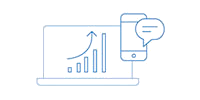
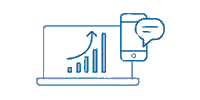
fazendo tema grayscale

Changed region(s): [[0.18, 0.12, 0.84, 0.87]]

diff --git a/src/app/components/Header/index.tsx b/src/app/components/Header/index.tsx
@@ -64,59 +64,77 @@ const Header = () => {
   // função de mudar cores do site
   const cores: any = {
     1: {
-      '--cor1': '#C4E8F0',
-      '--cor2': '#9BA6BC',
-      '--cor3': '#032D60',
-      '--cor4': '#E9F1FD',
-      '--cor5': '#CDDEF7',
-      '--cor6': '#1B8FC0',
-      '--cor7': '#0D4180',
-      '--cor8': '#0176D3',
-      '--cor9': '#00C3FF',
-      '--cor10': '#111169',
-      '--cor11': '#0869E7',
-      '--cor12': '#20083F',
-      '--cor13': '#0000FF',
-      '--cor14': '#9CC3FF',
-      '--cor15': '#EEEEEE',
-      '--cor16': '#000000'
+      "--cor1": "#C4E8F0",
+      "--cor2": "#9BA6BC",
+      "--cor3": "#032D60",
+      "--cor4": "#E9F1FD",
+      "--cor5": "#CDDEF7",
+      "--cor6": "#1B8FC0",
+      "--cor7": "#0D4180",
+      "--cor8": "#0176D3",
+      "--cor9": "#00C3FF",
+      "--cor10": "#111169",
+      "--cor11": "#0869E7",
+      "--cor12": "#20083F",
+      "--cor13": "#0000FF",
+      "--cor14": "#9CC3FF",
+      "--cor15": "#EEEEEE",
+      "--cor16": "#000000",
     },
     2: {
-      '--cor1': '#000000',
-      '--cor2': '#ffffff',
-      '--cor3': '#4fb5f8',
-      '--cor4': '#000a36',
-      '--cor5': '#003950',
-      '--cor6': '#1460c5',
-      '--cor7': '#82b3ee',
-      '--cor8': '#01a9d3',
-      '--cor9': '#606668',
-      '--cor10': '#7070ff',
-      '--cor11': '#00dada',
-      '--cor12': '#ab7de7',
-      '--cor13': '#0483fa',
-      '--cor14': '#030a16',
-      '--cor15': '#000000',
-      '--cor16': '#ffffff'
+      "--cor1": "#000000",
+      "--cor2": "#ffffff",
+      "--cor3": "#4fb5f8",
+      "--cor4": "#000a36",
+      "--cor5": "#003950",
+      "--cor6": "#1460c5",
+      "--cor7": "#82b3ee",
+      "--cor8": "#01a9d3",
+      "--cor9": "#606668",
+      "--cor10": "#7070ff",
+      "--cor11": "#00dada",
+      "--cor12": "#ab7de7",
+      "--cor13": "#0483fa",
+      "--cor14": "#030a16",
+      "--cor15": "#000000",
+      "--cor16": "#ffffff",
     },
     3: {
-      '--cor1': '#964444',
-      '--cor2': '#380909',
-      '--cor3': '#7be0ca',
-      '--cor4': '#b0c76f',
-      '--cor5': '#c9168d',
-      '--cor6': '#559da7',
-      '--cor7': '#5f1283',
-      '--cor8': '#3b0324',
-      '--cor9': '#ffffff',
-      '--cor10': '#202050',
-      '--cor11': '#00ff15',
-      '--cor12': '#1341a3',
-      '--cor13': '#d61212',
-      '--cor14': '#6b1f75',
-      '--cor15': '#e0adad',
-      '--cor16': '#000000'
-    }
+      "--cor1": "#ffffff",
+      "--cor2": "#ffffff",
+      "--cor3": "#4fb5f8",
+      "--cor4": "#000a36",
+      "--cor5": "#003950",
+      "--cor6": "#1460c5",
+      "--cor7": "#82b3ee",
+      "--cor8": "#01a9d3",
+      "--cor9": "#606668",
+      "--cor10": "#7070ff",
+      "--cor11": "#00dada",
+      "--cor12": "#ab7de7",
+      "--cor13": "#0483fa",
+      "--cor14": "#030a16",
+      "--cor15": "#000000",
+      "--cor16": "#ffffff",
+    },
+    4: {
+      "--cor1": "#D4D4D4",
+      "--cor2": "#A0A0A0",
+      "--cor3": "#3B3B3B",
+      "--cor4": "#FAFAFA",
+      "--cor5": "#DCDCDC",
+      "--cor6": "#6b6b6b",
+      "--cor7": "#5E5E5E",
+      "--cor8": "#616161",
+      "--cor9": "#A9A9A9",
+      "--cor10": "#474747",
+      "--cor11": "#757575",
+      "--cor12": "#3F3F3F",
+      "--cor13": "#5d5d5d",
+      "--cor14": "#979797",
+      "--cor15": "#EEEEEE",
+      "--cor16": "#000000",
+    },
   };
 
   function carregarCor() {
@@ -135,39 +153,69 @@ const Header = () => {
     const themeName = cor;
     const root = document.documentElement;
     const theme = cores[themeName];
-  
+
     // Atualiza as variáveis do :root
     for (const [key, value] of Object.entries(theme)) {
       root.style.setProperty(key, String(value));
     }
 
-    var styleElement: any;
-    if (corCount === 1) {
-      var additionalCss = `
-            .icone {
-              filter: invert(100%);
-            }
-            img {
-              filter: saturate(130%) contrast(120%) brightness(120%);
-            }
-            .contato-input {
-              border: 1px solid white;
-            }
-            .page {
-              background-image: url("./background1.jpg");
-            }
-            .form {
-              background-color: #040713d1;
-            }
-            .checkbox-item {
-              color: white;
-            }
-        `;
-        styleElement = document.createElement('style');
+    var styleElement = document.getElementById('meu-estilo');
+    var additionalCss: string = '';
+    console.log(corCount);
+    if (corCount < 4) {
+      // Verifica se o elemento existe
+      if (styleElement !== null) {
+        if (corCount === 0) {
+          var additionalCss = `
+                main {
+                  display: flex;
+                }
+            `;
+        }
+        if (corCount === 1) {
+          var additionalCss = `
+                .icone {
+                  filter: invert(100%);
+                }
+                img {
+                  filter: saturate(120%) brightness(120%);
+                }
+                .contato-input {
+                  border: 1px solid white;
+                }
+                .page {
+                  background-image: url("./background1.jpg");
+                }
+                .form {
+                  background-color: #040713d1;
+                }
+                .checkbox-item {
+                  color: white;
+                }
+            `;
+        } 
+        if (corCount === 2) {
+          var additionalCss = `
+                main {
+                  display: flex;
+                }
+            `;
+        }
+        if (corCount === 3) {
+          var additionalCss = `
+                html {
+                  filter: grayscale(100%);
+                }
+            `;
+        }
         styleElement.textContent = additionalCss;
+      } else {
+        styleElement = document.createElement("style");
+        styleElement.setAttribute('id', 'meu-estilo');
         document.head.appendChild(styleElement);
+      }
     } else {
-      var elementoParaExcluir = document.querySelector('head > style');
+      var elementoParaExcluir = document.getElementById('meu-estilo');
       if (elementoParaExcluir) {
           elementoParaExcluir.remove();
       }
@@ -175,11 +223,11 @@ const Header = () => {
   }
 
   function mudarCor() {
-    if (corCount < 3) {
+    if (corCount < 4) {
       corCount++;
-      cor ++;
+      cor++;
     }
-    if (corCount === 3) {
+    if (corCount === 4) {
       corCount = 0;
       cor = 1;
     }
@@ -228,15 +276,33 @@ const Header = () => {
           </nav>
         </div>
         <button className="acessibilidade" onClick={toggleMenu1}>
-          <Image className="icone" src="/acessibilidade1.png" alt="icone de acessibilidade" width={26} height={26} />
+          <Image
+            className="icone"
+            src="/acessibilidade1.png"
+            alt="icone de acessibilidade"
+            width={26}
+            height={26}
+          />
           {isMenuOpen1 && (
             <div className="botoes-acessibilidade">
               <button className="cores" onClick={mudarCor}>
-                <Image className="icone" src="/cores.svg" alt="cores" width={26} height={26} />
+                <Image
+                  className="icone"
+                  src="/cores.svg"
+                  alt="cores"
+                  width={26}
+                  height={26}
+                />
                 Cores
               </button>
               <button id="tamanho" onClick={aumentar}>
-                <Image className="icone" src="/texto.svg" alt="texto" width={26} height={26} />
+                <Image
+                  className="icone"
+                  src="/texto.svg"
+                  alt="texto"
+                  width={26}
+                  height={26}
+                />
                 Tamanho
               </button>
             </div>
@@ -244,11 +310,23 @@ const Header = () => {
         </button>
         <div className="itens-direita">
           <button className="icone-pesquisar">
-            <Image className="icone" src="/lupa1.png" alt="pesquisar" width={26} height={26} />
+            <Image
+              className="icone"
+              src="/lupa1.png"
+              alt="pesquisar"
+              width={26}
+              height={26}
+            />
           </button>
           <button className="icone-login">
             <a href="./login">
-              <Image className="icone" src="/avatar1.png" alt="login" width={25} height={25} />
+              <Image
+                className="icone"
+                src="/avatar1.png"
+                alt="login"
+                width={25}
+                height={25}
+              />
             </a>
           </button>
           <button className="menu-hamburger" onClick={toggleMenu}></button>
@@ -276,7 +354,13 @@ const Header = () => {
               </nav>
               <button className="login-dropdown">
                 <a href="./login">
-                  <Image className="icone" src="/avatar1.png" alt="login" width={25} height={25} />
+                  <Image
+                    className="icone"
+                    src="/avatar1.png"
+                    alt="login"
+                    width={25}
+                    height={25}
+                  />
                   <p>Login</p>
                 </a>
               </button>
